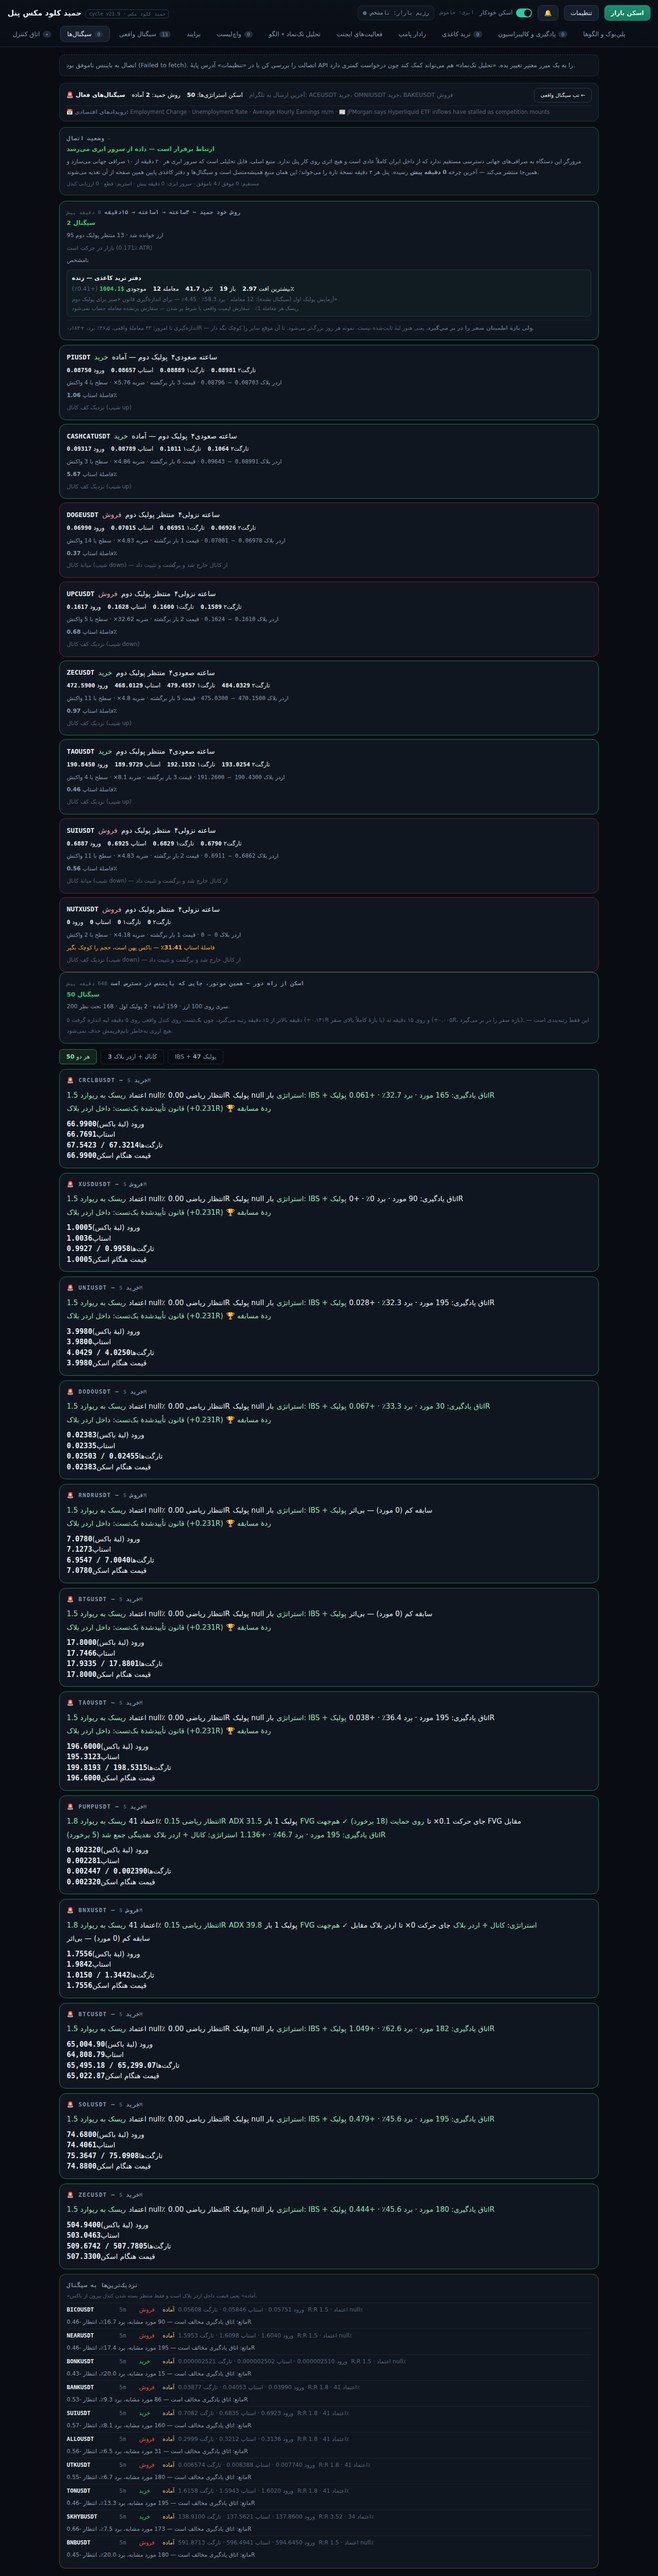
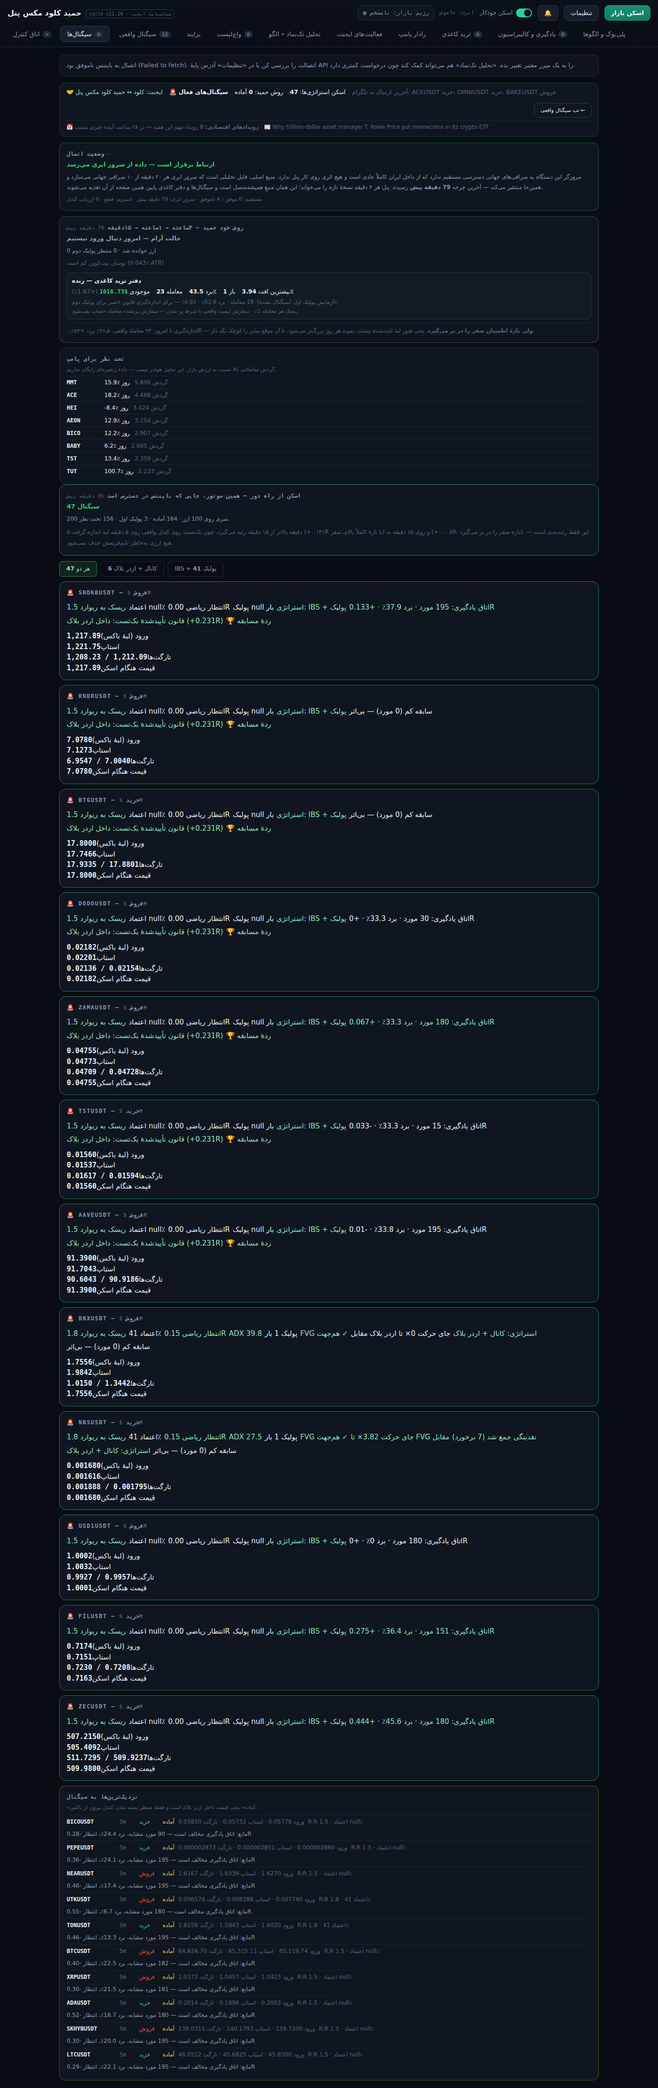
رفرش no-store + شناسنامهٔ ایجنت↔پنل — v21.10 (#42)
- سرویسورکر برای صفحه no-store شد: fetch عادی از کش HTTP مرورگر میخواند
  و GitHub Pages تا ۱۰ دقیقه max-age میدهد — رفرشِ حمید بعد از تغییر نام،
  صفحهٔ قدیمی را آورد. حالا صفحه همیشه مستقیم از شبکه میآید (کش فقط
  fallback آفلاین است).
- شناسنامهٔ جفت: report.agent = {کلود، حمید کلود مکس پنل} در هر چرخه، و
  چیپ «🤝 ایجنت: کلود ↔ حمید کلود مکس پنل» در نوار بالای پنل — حمید چند
  هوش مصنوعی را مقایسه میکند و هیچ خروجیای نباید بیشناسنامه باشد.

selfcheck ۱۳/۱۳، تست پنل سبز. v21.10.

Claude-Session: https://claude.ai/code/session_01Hmz5ep1FQiSRdvnpYTDsuE

diff --git a/index.html b/index.html
@@ -217,7 +217,7 @@ input.f{background:var(--panel2);border:1px solid var(--line2);border-radius:9px
 <body dir="ltr">
 <header>
   <div class="bar">
-    <div class="brand"><b>حمید کلود مکس پنل</b><span class="v" id="ver">cycle v21.9 · حمید کلود مکس</span></div>
+    <div class="brand"><b>حمید کلود مکس پنل</b><span class="v" id="ver">cycle v21.10 · شناسنامهٔ ایجنت</span></div>
     <div class="regime" id="regime"><span class="dot"></span><span id="regimeTxt">رژیم بازار: نامشخص</span></div>
     <span class="mono" id="syncPill" style="font-size:11px;color:var(--dim)">ابری: خاموش</span>
     <label class="switch" id="autoSw"><span>اسکن خودکار</span><i></i></label>
@@ -4428,6 +4428,7 @@ function renderTgBanner(){
   const news=(((hj.world||{}).news)||{}).hot||[];
   el.innerHTML=`<div class="box" style="border-color:#1e7d5a55;margin-bottom:12px;padding:10px 14px">
     <div style="display:flex;gap:14px;flex-wrap:wrap;align-items:center;font-size:12.5px">
+      <span class="chip" style="border-color:#2f7d5b;color:#8fe3bd">🤝 ایجنت: کلود ↔ حمید کلود مکس پنل</span>
       <b>🚨 سیگنالهای فعال</b>
       <span>روش حمید: <b>${ready.length}</b> آماده</span>
       <span>اسکن استراتژیها: <b>${rsig}</b></span>

diff --git a/sw.js b/sw.js
@@ -1,7 +1,7 @@
 /* Hamid Signal Agent — service worker
    Caches the app shell so the panel opens instantly (even offline),
    while always going to the network for live market data and the cloud API. */
-const CACHE = "hsa-shell-v21.9";
+const CACHE = "hsa-shell-v21.10";
 const ASSETS = [
   "./",
   "./index.html",
@@ -62,8 +62,11 @@ self.addEventListener("fetch", (e) => {
   // guarantee that what is on screen is what was deployed. The cached copy still
   // answers when the network does not, so it still opens offline.
   if (req.mode === "navigate" || (req.destination === "document")) {
+    // no-store: fetch(req) خالی از کش HTTP مرورگر میخواند و GitHub Pages تا
+    // ۱۰ دقیقه max-age میدهد — یعنی رفرشِ بعد از دیپلوی، صفحهٔ قدیمی را
+    // میآورد و «تغییر نام پنل» دیده نمیشد. مستقیم از شبکه، همیشه.
     e.respondWith(
-      fetch(req)
+      fetch(req, { cache: "no-store" })
         .then(save)
         .catch(() => caches.match(req).then((hit) => hit || caches.match("./index.html")))
     );

diff --git a/claude-liam-signal/python/hamid/cycle.py b/claude-liam-signal/python/hamid/cycle.py
@@ -370,6 +370,9 @@ def main():
 
     report = {"generated": int(time.time() * 1000),
               "generatedText": datetime.now(timezone.utc).strftime("%Y-%m-%d %H:%M UTC"),
+              # شناسنامهٔ جفتِ ایجنت↔پنل — حمید چند هوش مصنوعی را با هم مقایسه
+              # میکند؛ هر خروجی باید بگوید مال کدام جفت است تا هیچوقت قاطی نشود.
+              "agent": {"name": "کلود — Claude Code", "panel": "حمید کلود مکس پنل"},
               "mode": mode, "why": why, "pacing": pace,
               "world": {k: world.get(k) for k in
                         ("verdict", "fear_greed", "dominance", "funding",
